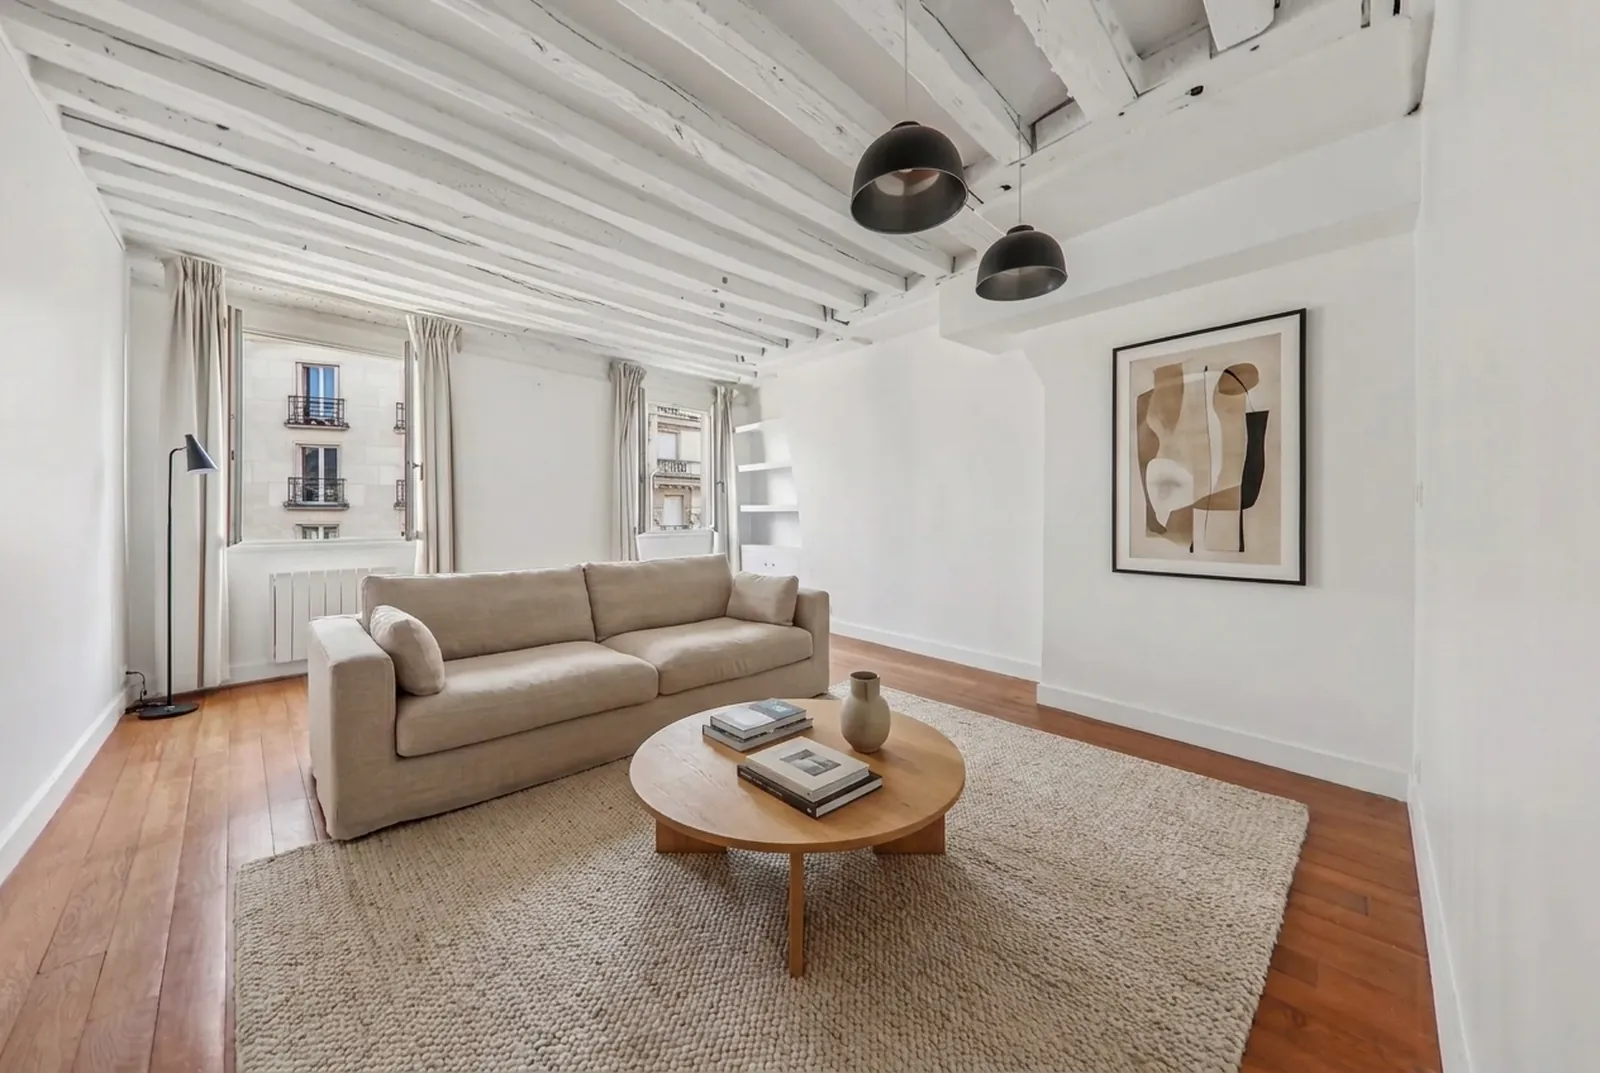
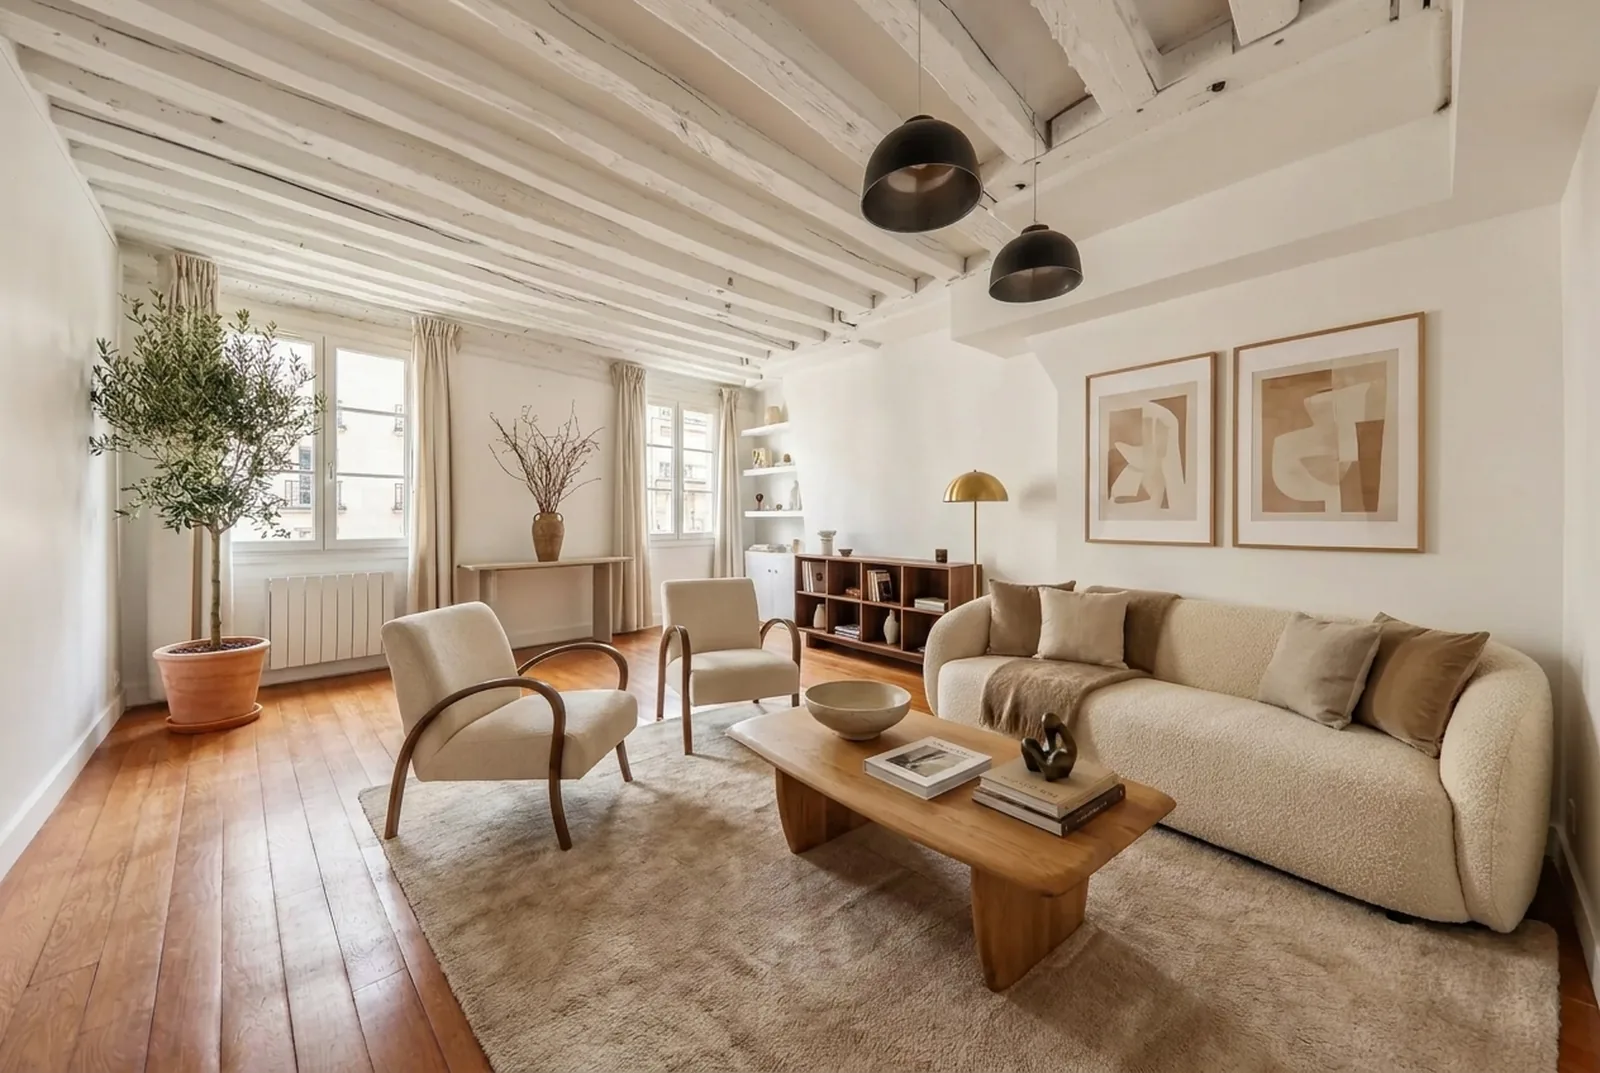
Aménagements virtuels richement meublés, carton de fin, notification email active
Retours Louison : un canapé et une table posés au milieu du salon, ce n'est ni
chaleureux ni organisé ; les chambres se résumaient à un lit et une lampe.

- 5 projections régénérées (nano-banana-2, ratio 3:2 de la source) : mobilier
  adossé aux murs, œuvres encadrées, objets d'art, tapis, plantes, éclairage
  en couches. Séjour et chambre du 5e, bureau, séjour et chambre du 6e.
  Architecture verrouillée dans le prompt, chaque rendu comparé à sa source.
- Carton de fin : le film se figeait sur la chambre du 6e sans rien dire.
  Il apparaît en fondu sur la dernière seconde — « Le bien vous attend » et
  une flèche animée qui mène aux photographies.
- RESEND_API_KEY posée dans les secrets Supabase : la fonction lead-42bac
  renvoie désormais notifie:true, l'email arrive bien à destination.

diff --git a/index.html b/index.html
@@ -29,7 +29,7 @@
   <link rel="preload" href="assets/fonts/Manrope-400.woff2" as="font" type="font/woff2" crossorigin>
   <link rel="preload" as="image" type="image/webp" imagesrcset="assets/img/orsay-1200.webp 1200w, assets/img/orsay-1600.webp 1600w, assets/img/orsay-2400.webp 2400w" imagesizes="100vw" fetchpriority="high">
   <link rel="stylesheet" href="assets/fonts/fonts.css?v=17">
-  <link rel="stylesheet" href="css/main.css?v=35">
+  <link rel="stylesheet" href="css/main.css?v=36">
   <noscript><style>.reveal{opacity:1;transform:none}.hero__content>*{opacity:1;transform:none}.opener__frame{transform:none;border-radius:0}</style></noscript>
   <script type="application/ld+json">
   {
@@ -148,6 +148,14 @@
           <button class="opener__skip" id="openerSkip" type="button">Passer<span aria-hidden="true">&nbsp;→</span></button>
           <button class="opener__play" id="openerPlay" type="button"><span aria-hidden="true"></span>Lancer le film</button>
           <div class="opener__bar" id="openerBar" aria-hidden="true"><span></span></div>
+          <div class="opener__end" id="openerEnd" aria-hidden="true">
+            <p class="opener__end-eyebrow">42, rue du Bac · Paris VII</p>
+            <p class="opener__end-title">Le bien vous attend</p>
+            <button class="opener__end-cue" id="openerEndCue" type="button">
+              Découvrir les photographies
+              <svg viewBox="0 0 24 32" width="18" height="24" aria-hidden="true"><path d="M12 2v26M4 20l8 8 8-8" fill="none" stroke="currentColor" stroke-width="1.6" stroke-linecap="round" stroke-linejoin="round"/></svg>
+            </button>
+          </div>
         </div>
       </div>
     </section>
@@ -183,11 +191,11 @@
           <p>Les mêmes pièces, aménagées virtuellement sur les photographies réelles. Murs, fenêtres, poutres et volumes restent exactement ceux du bien.</p>
         </header>
         <div class="projections__grid" id="projGrid">
-          <figure class="proj proj--wide reveal"><img src="assets/img/sejour-stage-1600.webp?v=3" width="1600" height="1073" alt="Le séjour du 5e étage aménagé : canapé en lin, table basse en chêne, tapis" loading="lazy" decoding="async"><figcaption>Le séjour, 5ᵉ</figcaption></figure>
-          <figure class="proj reveal"><img src="assets/img/chambre-stage-1600.webp?v=3" width="1600" height="1073" alt="La chambre du 5e étage aménagée : lit en lin, chevets en chêne" loading="lazy" decoding="async"><figcaption>La chambre, 5ᵉ</figcaption></figure>
-          <figure class="proj reveal"><img src="assets/img/bureau-stage-1600.webp?v=3" width="1600" height="1073" alt="Le bureau du 5e étage aménagé face aux toits : bureau en chêne, bibliothèque basse" loading="lazy" decoding="async"><figcaption>Le bureau face aux toits, 5ᵉ</figcaption></figure>
-          <figure class="proj reveal"><img src="assets/img/six-sejour-stage-1600.webp?v=3" width="1600" height="1073" alt="Le séjour du 6e étage aménagé en studio : canapé, table ronde, plantes" loading="lazy" decoding="async"><figcaption>Le 6ᵉ en studio indépendant</figcaption></figure>
-          <figure class="proj reveal"><img src="assets/img/six-chambre-stage-1600.webp?v=3" width="1600" height="1073" alt="La chambre mansardée du 6e étage aménagée : lit double, chevet, tapis" loading="lazy" decoding="async"><figcaption>La chambre mansardée, 6ᵉ</figcaption></figure>
+          <figure class="proj proj--wide reveal"><img src="assets/img/sejour-stage-1600.webp?v=4" width="1600" height="1073" alt="Le séjour du 5e étage aménagé : canapé en lin, table basse en chêne, tapis" loading="lazy" decoding="async"><figcaption>Le séjour, 5ᵉ</figcaption></figure>
+          <figure class="proj reveal"><img src="assets/img/chambre-stage-1600.webp?v=4" width="1600" height="1073" alt="La chambre du 5e étage aménagée : lit en lin, chevets en chêne" loading="lazy" decoding="async"><figcaption>La chambre, 5ᵉ</figcaption></figure>
+          <figure class="proj reveal"><img src="assets/img/bureau-stage-1600.webp?v=4" width="1600" height="1073" alt="Le bureau du 5e étage aménagé face aux toits : bureau en chêne, bibliothèque basse" loading="lazy" decoding="async"><figcaption>Le bureau face aux toits, 5ᵉ</figcaption></figure>
+          <figure class="proj reveal"><img src="assets/img/six-sejour-stage-1600.webp?v=4" width="1600" height="1073" alt="Le séjour du 6e étage aménagé en studio : canapé, table ronde, plantes" loading="lazy" decoding="async"><figcaption>Le 6ᵉ en studio indépendant</figcaption></figure>
+          <figure class="proj reveal"><img src="assets/img/six-chambre-stage-1600.webp?v=4" width="1600" height="1073" alt="La chambre mansardée du 6e étage aménagée : lit double, chevet, tapis" loading="lazy" decoding="async"><figcaption>La chambre mansardée, 6ᵉ</figcaption></figure>
         </div>
         <p class="projections__note reveal">Aménagements virtuels générés sur les photographies du bien : le mobilier est une suggestion, l'architecture est celle que vous visiterez. Indicatif, non contractuel.</p>
       </div>
@@ -343,6 +351,6 @@
     <p class="lightbox__count" id="lbCount"></p>
   </div>
 
-  <script src="js/main.js?v=35" defer></script>
+  <script src="js/main.js?v=36" defer></script>
 </body>
 </html>

diff --git a/css/main.css b/css/main.css
@@ -250,6 +250,38 @@ h1, h2, h3 { font-family: var(--serif); font-weight: 500; color: var(--ink); }
 .opener__bar { position: absolute; left: 0; right: 0; bottom: 0; height: 2px; background: rgba(244, 242, 237, 0.12); }
 .opener__bar span { display: block; height: 100%; width: 0; background: #d8bc85; }
 
+/* Carton de fin : sans lui, le film se figeait sur sa dernière image et
+   le visiteur restait devant un arrêt sur image sans savoir quoi faire. */
+.opener__end {
+  position: absolute; inset: 0; z-index: 3;
+  display: grid; place-content: center; justify-items: center; gap: 0.6rem;
+  text-align: center; padding: 2rem;
+  background: rgba(10, 10, 14, 0.55);
+  backdrop-filter: blur(3px); -webkit-backdrop-filter: blur(3px);
+  opacity: 0; pointer-events: none;
+  transition: opacity 0.9s var(--ease);
+}
+.opener__end.is-on { opacity: 1; pointer-events: auto; }
+.opener__end-eyebrow { font-size: 0.68rem; letter-spacing: 0.32em; text-transform: uppercase; color: #d8bc85; }
+.opener__end-title {
+  font-family: var(--serif); font-weight: 500; color: #f6f4ef;
+  font-size: clamp(2rem, 5vw, 3.4rem); line-height: 1.05;
+}
+.opener__end-cue {
+  margin-top: 0.8rem;
+  display: inline-flex; flex-direction: column; align-items: center; gap: 0.7rem;
+  font-size: 0.68rem; letter-spacing: 0.26em; text-transform: uppercase;
+  color: rgba(246, 244, 239, 0.82);
+  transition: color 0.3s var(--ease);
+}
+.opener__end-cue:hover { color: #d8bc85; }
+.opener__end-cue svg { animation: endCue 2.2s var(--ease) infinite; }
+@keyframes endCue {
+  0%, 100% { transform: translateY(0); opacity: 0.75; }
+  50% { transform: translateY(7px); opacity: 1; }
+}
+@media (prefers-reduced-motion: reduce) { .opener__end-cue svg { animation: none; } }
+
 /* ---------- [3] Photos ---------- */
 
 .photos { padding: clamp(4rem, 10vh, 7rem) 0 clamp(2.5rem, 6vh, 4.5rem); }

diff --git a/js/main.js b/js/main.js
@@ -141,6 +141,25 @@
     $("#photos").scrollIntoView({ behavior: reducedMotion ? "auto" : "smooth" });
   });
 
+  /* Le film se terminait sur un arrêt sur image de la chambre du 6ᵉ : le
+     visiteur ne savait pas que c'était fini. Le carton apparaît en fondu sur
+     la dernière seconde et l'invite explicitement à poursuivre. */
+  const openerEnd = $("#openerEnd");
+  const endCue = $("#openerEndCue");
+  const FIN = 1.1; // s avant la fin
+  video.addEventListener("timeupdate", () => {
+    if (!video.duration) return;
+    openerEnd.classList.toggle("is-on", video.currentTime >= video.duration - FIN);
+  });
+  video.addEventListener("seeking", () => {
+    if (video.duration && video.currentTime < video.duration - FIN) {
+      openerEnd.classList.remove("is-on");
+    }
+  });
+  endCue.addEventListener("click", () => {
+    $("#photos").scrollIntoView({ behavior: reducedMotion ? "auto" : "smooth" });
+  });
+
   /* ---------- [3] Lightbox de la galerie ---------- */
 
   const lightbox = $("#lightbox");
